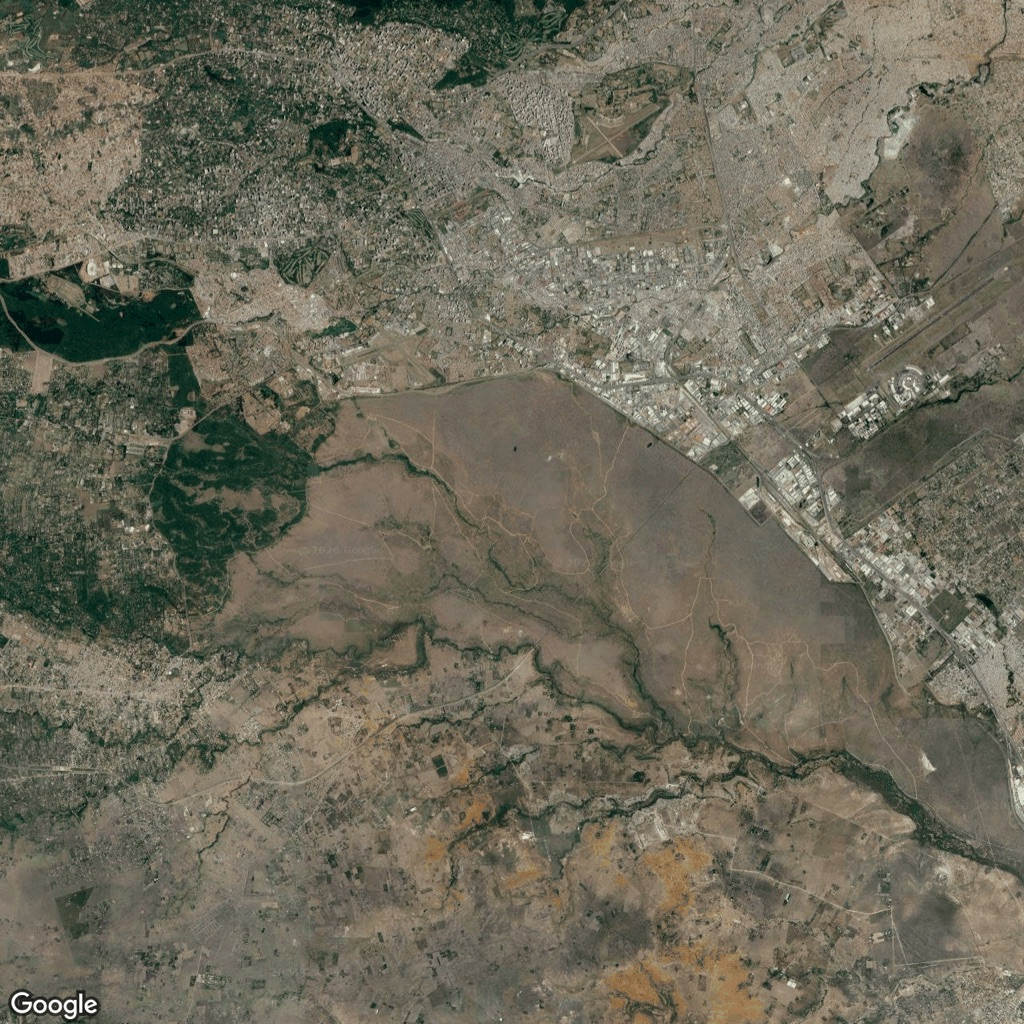
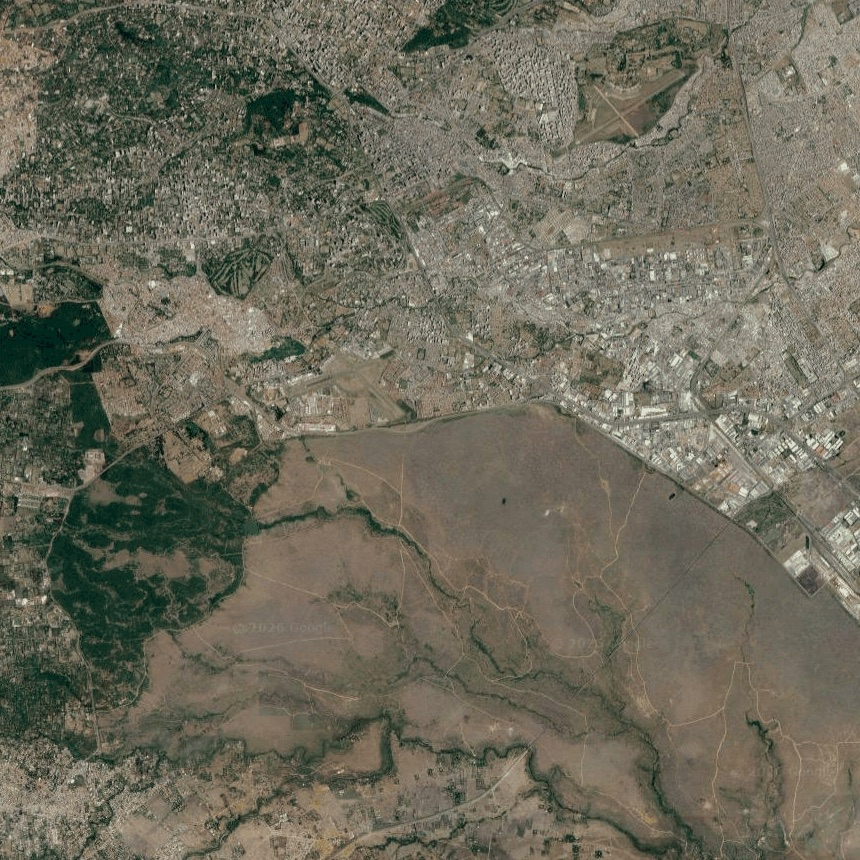
Recrop Havana and Nairobi; record why Kyoto and the Globe chunk stay as they are
Havana was ~45% featureless ocean; the crop drops that to ~20% and makes the
Y-shaped harbour and the old-town grid the subject. Nairobi showed the city as
a top-left sliver; it is now roughly half city, half park, still keeping the
national park's hard straight boundary — which is the point, since the park is
its funFact. Both cut from the 1280px originals in git history, so nothing was
downscaled twice, and both cost no API call, which matters because the key
that fetched this set is on a lapsed free trial.

Kyoto is left alone deliberately. Its coordinate is Kinkaku-ji, but the Golden
Pavilion reads as nothing from directly overhead — a small dark pond in trees,
which I verified by cropping the original down to an 820m-wide frame. Cropping
cannot fix it; a different landmark can, and that needs a re-fetch.

The Globe chunk is left alone too, with the measurement written down so it
isn't re-litigated: Three.js + OrbitControls alone is 187 kB gzip against the
chunk's 177 kB total, so Rollup is already tree-shaking well and Three.js is
the floor. Trimming world-atlas to the `land` object Globe actually uses saves
4 kB gzip and costs a derived copy of upstream data in the repo — not worth it.

diff --git a/src/data/satellite-world-cities.js b/src/data/satellite-world-cities.js
@@ -21,7 +21,7 @@ export const satelliteWorldCities = [
   { name: "Hong Kong", lat: 22.2880, lng: 114.1680, country: "China", region: "Asia", funFact: "A former British colony known for its skyscraper skyline rising on both sides of a deep natural harbor.", imageFile: "Hong_Kong_China.jpg" },
   { name: "Tokyo", lat: 35.6852, lng: 139.7528, country: "Japan", region: "Asia", funFact: "One of the most populous metropolitan areas in the world, and a global hub for anime and pop culture.", imageFile: "Tokyo_Japan.jpg" },
   { name: "Osaka", lat: 34.6873, lng: 135.5262, country: "Japan", region: "Asia", funFact: "Famous for a 16th century castle surrounded by a massive moat, and widely considered the food capital of its country.", imageFile: "Osaka_Japan.jpg" },
-  { name: "Kyoto", lat: 35.0394, lng: 135.7292, country: "Japan", region: "Asia", funFact: "Once the imperial capital for over a thousand years, home to more UNESCO World Heritage temples than any other city in its country.", imageFile: "Kyoto_Japan.jpg" },
+  { name: "Kyoto", lat: 35.0394, lng: 135.7292, country: "Japan", region: "Asia", funFact: "Once the imperial capital for over a thousand years, home to more UNESCO World Heritage temples than any other city in its country.", imageFile: "Kyoto_Japan.jpg" }, // Kinkaku-ji is not identifiable from directly overhead; the frame reads as the city grid + western hills instead. Needs a different landmark, which needs a re-fetch.
   { name: "Seoul", lat: 37.5200, lng: 126.9920, country: "South Korea", region: "Asia", funFact: "A major river splits this capital into northern and southern halves, with mountains ringing the city.", imageFile: "Seoul_South_Korea.jpg" },
   { name: "Singapore", lat: 1.2830, lng: 103.8600, country: "Singapore", region: "Asia", funFact: "A city-state known for a futuristic garden complex topped with structures shaped like a giant ship.", imageFile: "Singapore_Singapore.jpg" },
   { name: "Bangkok", lat: 13.7500, lng: 100.4915, country: "Thailand", region: "Asia", funFact: "Home to an ornate royal palace complex along the banks of a winding river.", imageFile: "Bangkok_Thailand.jpg" },
@@ -53,7 +53,7 @@ export const satelliteWorldCities = [
   { name: "Vancouver", lat: 49.2900, lng: -123.1300, country: "Canada", region: "North America", funFact: "A port city surrounded by mountains on three sides and the sea on the fourth, regularly ranked among the world's most livable cities.", imageFile: "Vancouver_Canada.jpg" },
   { name: "Toronto", lat: 43.6426, lng: -79.3871, country: "Canada", region: "North America", funFact: "Once home to the tallest freestanding structure in North America, sitting beside one of the Great Lakes.", imageFile: "Toronto_Canada.jpg" },
   { name: "Mexico City", lat: 19.4326, lng: -99.1332, country: "Mexico", region: "North America", funFact: "Built atop a drained lakebed, once the capital of an ancient empire.", imageFile: "Mexico_City_Mexico.jpg" },
-  { name: "Havana", lat: 23.1450, lng: -82.3700, country: "Cuba", region: "North America", funFact: "A seaside city famous for its colorful vintage cars and colonial architecture.", imageFile: "Havana_Cuba.jpg" },
+  { name: "Havana", lat: 23.1450, lng: -82.3700, country: "Cuba", region: "North America", funFact: "A seaside city famous for its colorful vintage cars and colonial architecture.", imageFile: "Havana_Cuba.jpg" }, // image is a 860px crop of the 1280px original, see the Satellite Imagery notes
   { name: "Panama City", lat: 8.9430, lng: -79.5560, country: "Panama", region: "North America", funFact: "Located right beside a canal that connects the Pacific and Atlantic Oceans.", imageFile: "Panama_City_Panama.jpg" },
 
   // ---- South America (6) ----
@@ -69,7 +69,7 @@ export const satelliteWorldCities = [
   { name: "Cape Town", lat: -33.9550, lng: 18.4150, country: "South Africa", region: "Africa", funFact: "A seaside city backed by a famous flat-topped mountain.", imageFile: "Cape_Town_South_Africa.jpg" },
   { name: "Marrakech", lat: 31.6258, lng: -7.9890, country: "Morocco", region: "Africa", funFact: "An ancient walled city known for its red walls and bustling open air market square.", imageFile: "Marrakech_Morocco.jpg" },
   { name: "Casablanca", lat: 33.6086, lng: -7.6326, country: "Morocco", region: "Africa", funFact: "A port city made world famous by a classic Hollywood film, even though the movie was never actually filmed there.", imageFile: "Casablanca_Morocco.jpg" },
-  { name: "Nairobi", lat: -1.3580, lng: 36.8400, country: "Kenya", region: "Africa", funFact: "One of the few capital cities in the world with a wildlife national park right at its edge.", imageFile: "Nairobi_Kenya.jpg" },
+  { name: "Nairobi", lat: -1.3580, lng: 36.8400, country: "Kenya", region: "Africa", funFact: "One of the few capital cities in the world with a wildlife national park right at its edge.", imageFile: "Nairobi_Kenya.jpg" }, // image is a 860px crop of the 1280px original, see the Satellite Imagery notes
   { name: "Zanzibar", lat: -6.1620, lng: 39.1885, country: "Tanzania", region: "Africa", funFact: "An old town on an Indian Ocean island that was once the center of the East African spice trade.", imageFile: "Zanzibar_Tanzania.jpg" },
   { name: "Lagos", lat: 6.4480, lng: 3.4060, country: "Nigeria", region: "Africa", funFact: "One of the most populous cities in Africa, built across a lagoon.", imageFile: "Lagos_Nigeria.jpg" },
 

diff --git a/CLAUDE.md b/CLAUDE.md
@@ -274,7 +274,12 @@ coastline misses, not errors. **Re-run the sweep after editing any coordinate.**
 ## Satellite Imagery
 
 - Images are stored in `public/satellite/{airports,cities,world-airports,world-cities}/`.
-- Generated via `scripts/fetch-satellite.js` using the Google Maps Static API.
+- Generated via `scripts/fetch-satellite.js` using the Google Maps Static API. **The key
+  that produced this set no longer works** — it was on a Google Cloud free trial that has
+  since lapsed, and the GCP project now reports `Billing is disabled`, so the script
+  cannot run until a real billing account is attached (a card is required even for the
+  free monthly tier). Assume re-fetching is unavailable and reach for a crop of the
+  1280px original in git history first.
 - Run with: `GOOGLE_MAPS_API_KEY=your_key node scripts/fetch-satellite.js --target=airports`
   (default), `--target=cities`, `--target=world-cities` or `--target=world-airports`.
 - Requests use `scale=2` with `size=640x640` (1280×1280 px output), `maptype=satellite`,
@@ -292,22 +297,35 @@ coastline misses, not errors. **Re-run the sweep after editing any coordinate.**
   quota; note the old blobs stay in git history, so a fresh clone is unchanged in size even
   though the Pages deploy shrank. Future fetches return 1280px JPEGs straight from the API
   (`format=jpg` is already set), which is fine — no need to match 1024 exactly.
-- **Two images are crops, not fetches**, and a re-fetch would overwrite both:
-  `world-cities/Mumbai_India.jpg` is **928px** and `world-airports/KUL.jpg` is **800px**,
-  where everything else is 1024px. Mumbai's fetch came back with a **plain white
-  missing-imagery block over the lower-left quadrant** — all of it open sea, so cropping to
-  the right/lower part of the frame removed the hole *and* gave a better composition (the
-  peninsula now fills the frame instead of sharing it with empty ocean). KUL framed the
-  airfield at only ~25% of the frame, and a centred crop is arithmetically the same thing
-  as zooming in, so it now reads at ~50% with all three runways and the Sepang circuit
-  still in shot. Both were cut from the 1280px png8 originals recovered via
-  `git show 7467ee8^:<path>`, so no resolution was lost to the earlier 1024px pass. They
-  are below the frame's retina size and will look marginally softer on a high-DPI screen;
-  that was judged a good trade against a white hole and a 25%-of-frame airport. The zoom
-  overrides in the fetch script were still moved to 13 for both, so a future re-fetch
-  lands closer to these crops — but **check both images after any re-fetch of the
-  `world-cities` or `world-airports` targets**, because the fetched version will not be
-  the crop.
+- **Four images are crops, not fetches**, and a re-fetch would overwrite them:
+  `Mumbai_India.jpg` (928px), `Havana_Cuba.jpg` and `Nairobi_Kenya.jpg` (860px) under
+  `world-cities/`, and `world-airports/KUL.jpg` (800px), where everything else is 1024px.
+  **Cropping is the repair route of choice here**, because the API key that fetched this
+  set was on a lapsed free trial and no longer works — see the note at the end of this
+  section. All four were cut from the 1280px png8 originals recovered via
+  `git show 7467ee8^:<path>`, so nothing was downscaled twice.
+  - **Mumbai** came back with a plain white missing-imagery block over the lower-left
+    quadrant — all of it open sea, so cropping it away removed the hole *and* improved the
+    composition; the peninsula now fills the frame.
+  - **KUL** framed the airfield at ~25% of the frame. A centred crop is arithmetically the
+    same operation as zooming in, so it now reads at ~50% with all three runways and the
+    Sepang circuit still in shot.
+  - **Havana** was ~45% featureless ocean; the crop drops that to ~20% and makes the
+    Y-shaped harbour and the old-town grid the subject.
+  - **Nairobi** showed the city as a top-left sliver. The crop balances it to roughly half
+    city, half park, keeping the national park's hard straight boundary — which is the
+    whole point, since the park is its `funFact`.
+
+  All four are below the frame's retina size and look marginally softer on a high-DPI
+  screen; judged a good trade in every case. The fetch script's zoom overrides were moved
+  to 13 for Mumbai and KUL so a future re-fetch lands near the crop, but **re-check these
+  four after any re-fetch of the `world-cities` or `world-airports` targets** — the
+  fetched version will not be the crop.
+- **Kyoto is a known-weak frame that cropping cannot fix.** Its coordinate is Kinkaku-ji,
+  but the Golden Pavilion reads as nothing from directly overhead — a small dark pond in
+  trees, verified by cropping the original down to an 820m-wide frame. So the image is
+  left wide, where it at least reads as Kyoto's street grid against the western hills.
+  Fixing it properly means choosing a different landmark, which means a re-fetch.
 - **The `airports` target fetches only `satellite-airports.js`.** It used to union that
   with `airports.js`, which is the *blank-map* pool and renders no imagery at all — so 18
   images (20.9 MB) were committed that no code path could ever load. They have been
